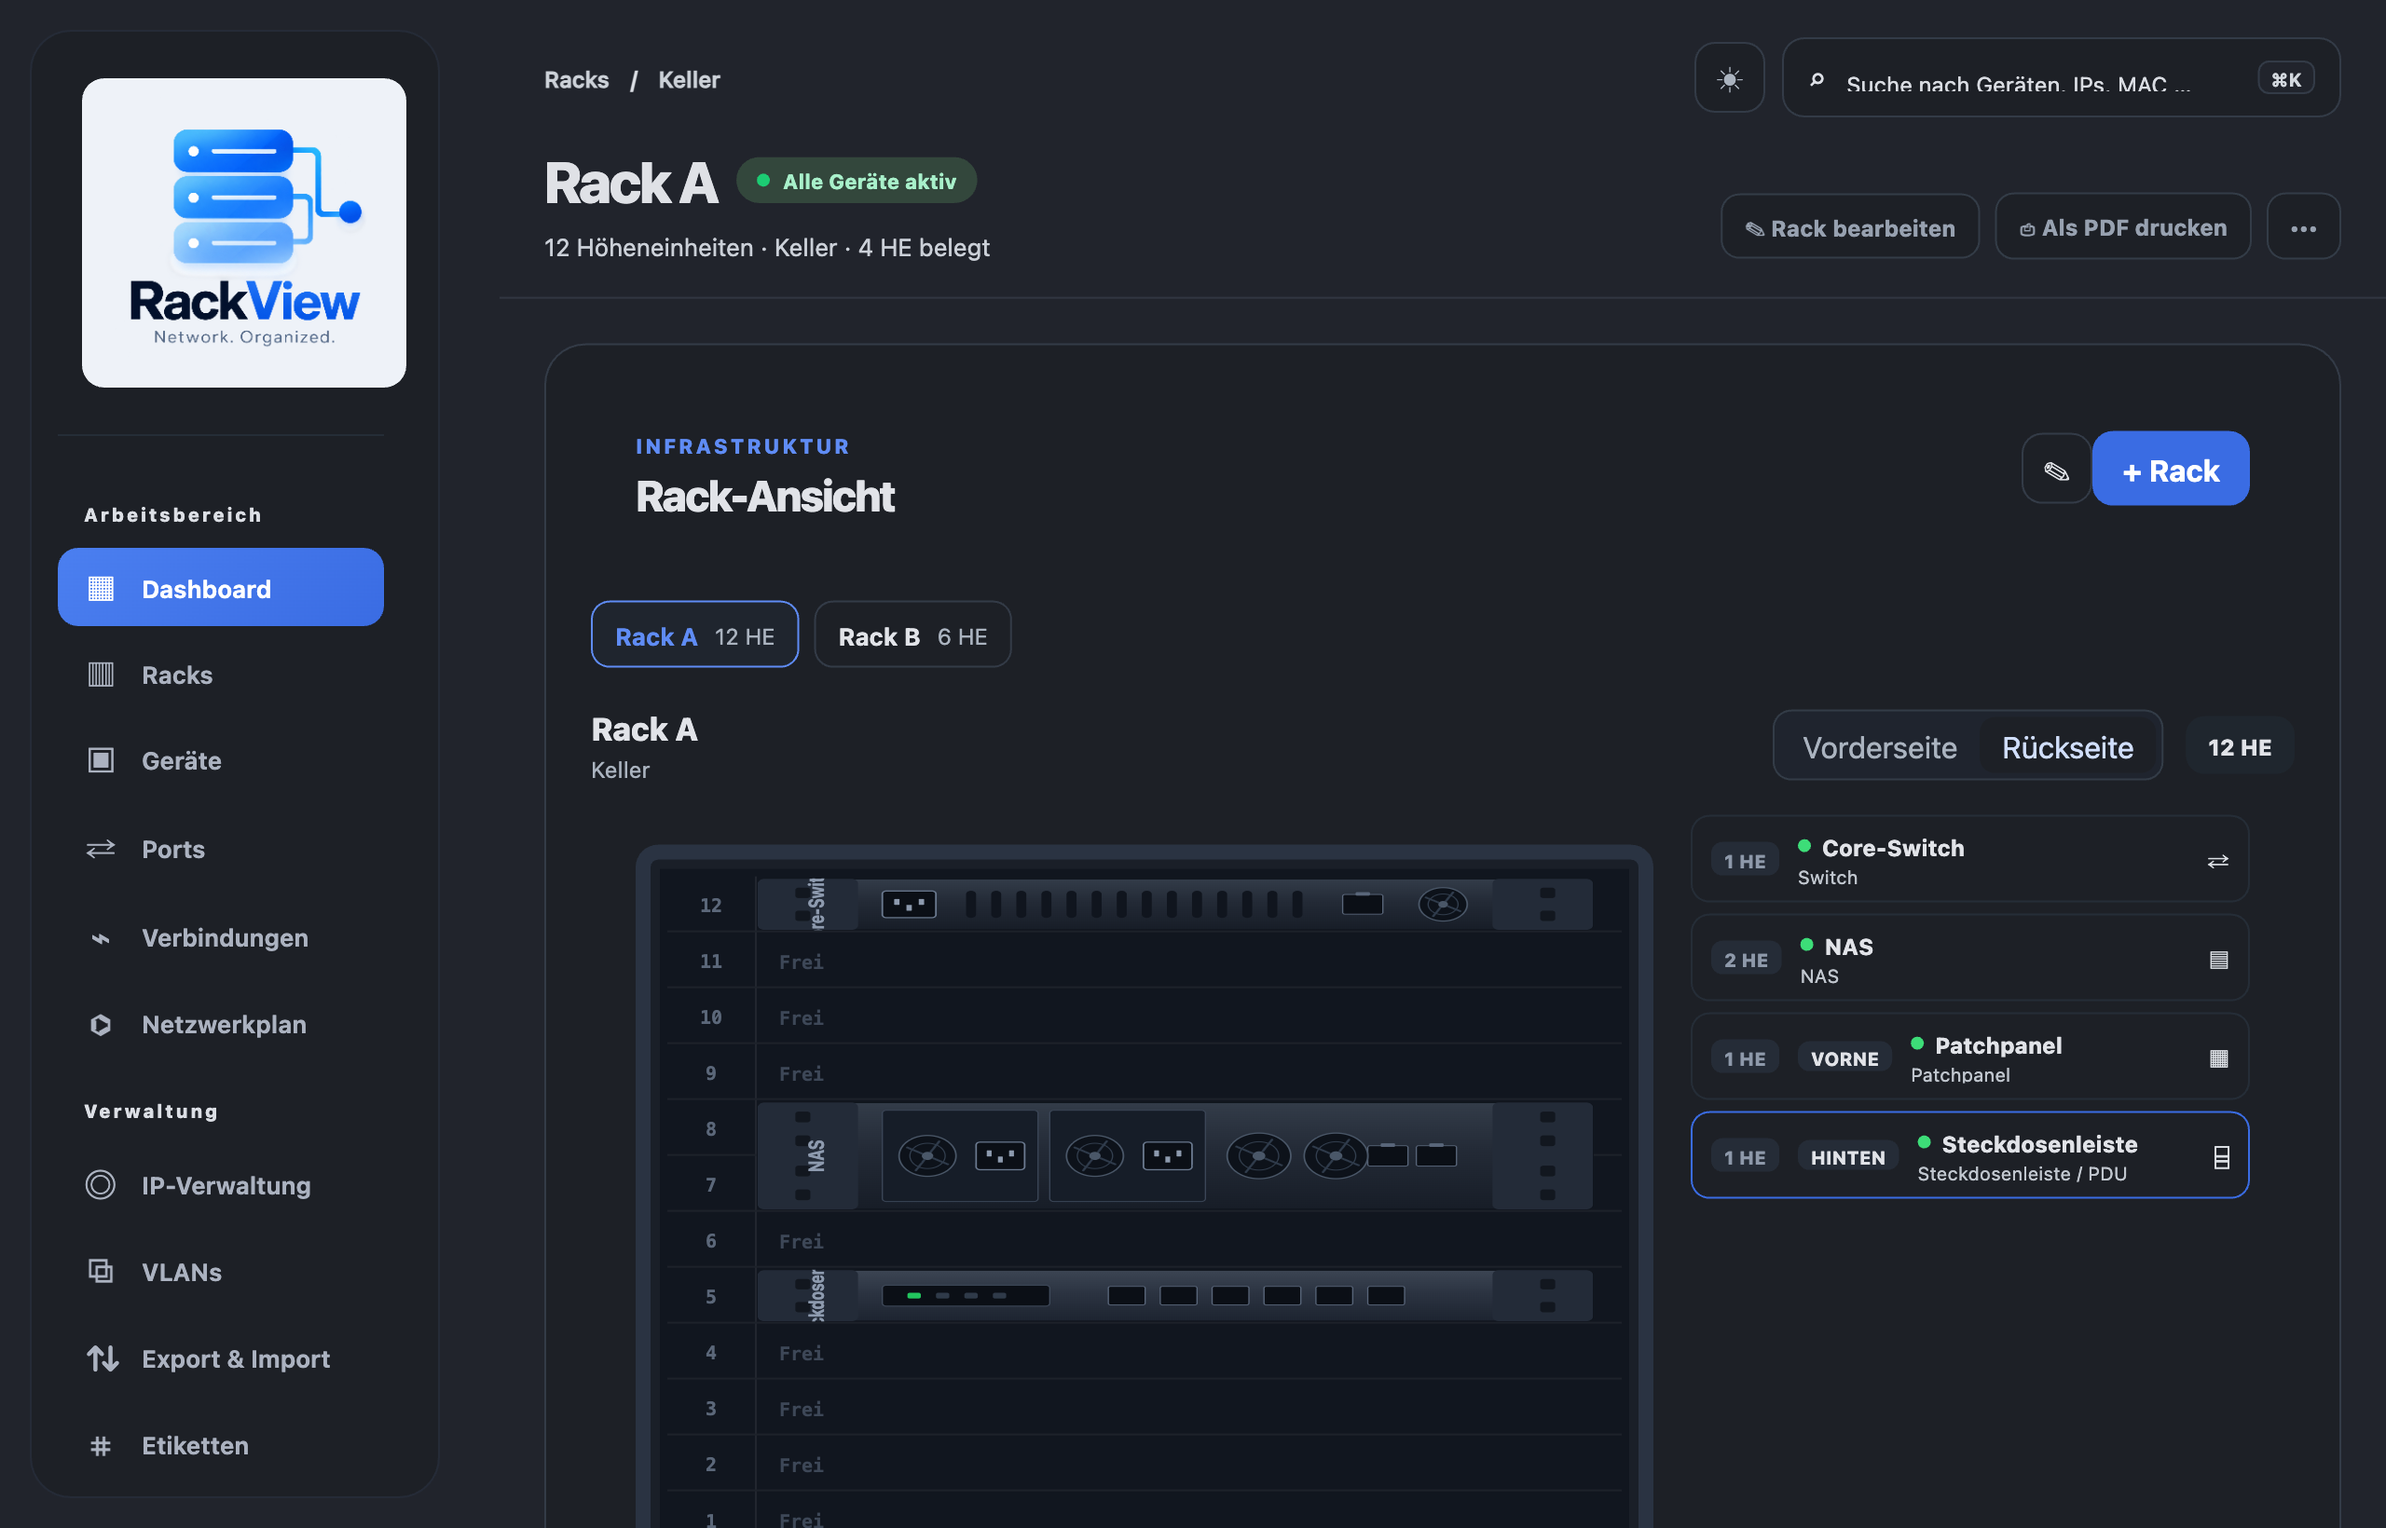
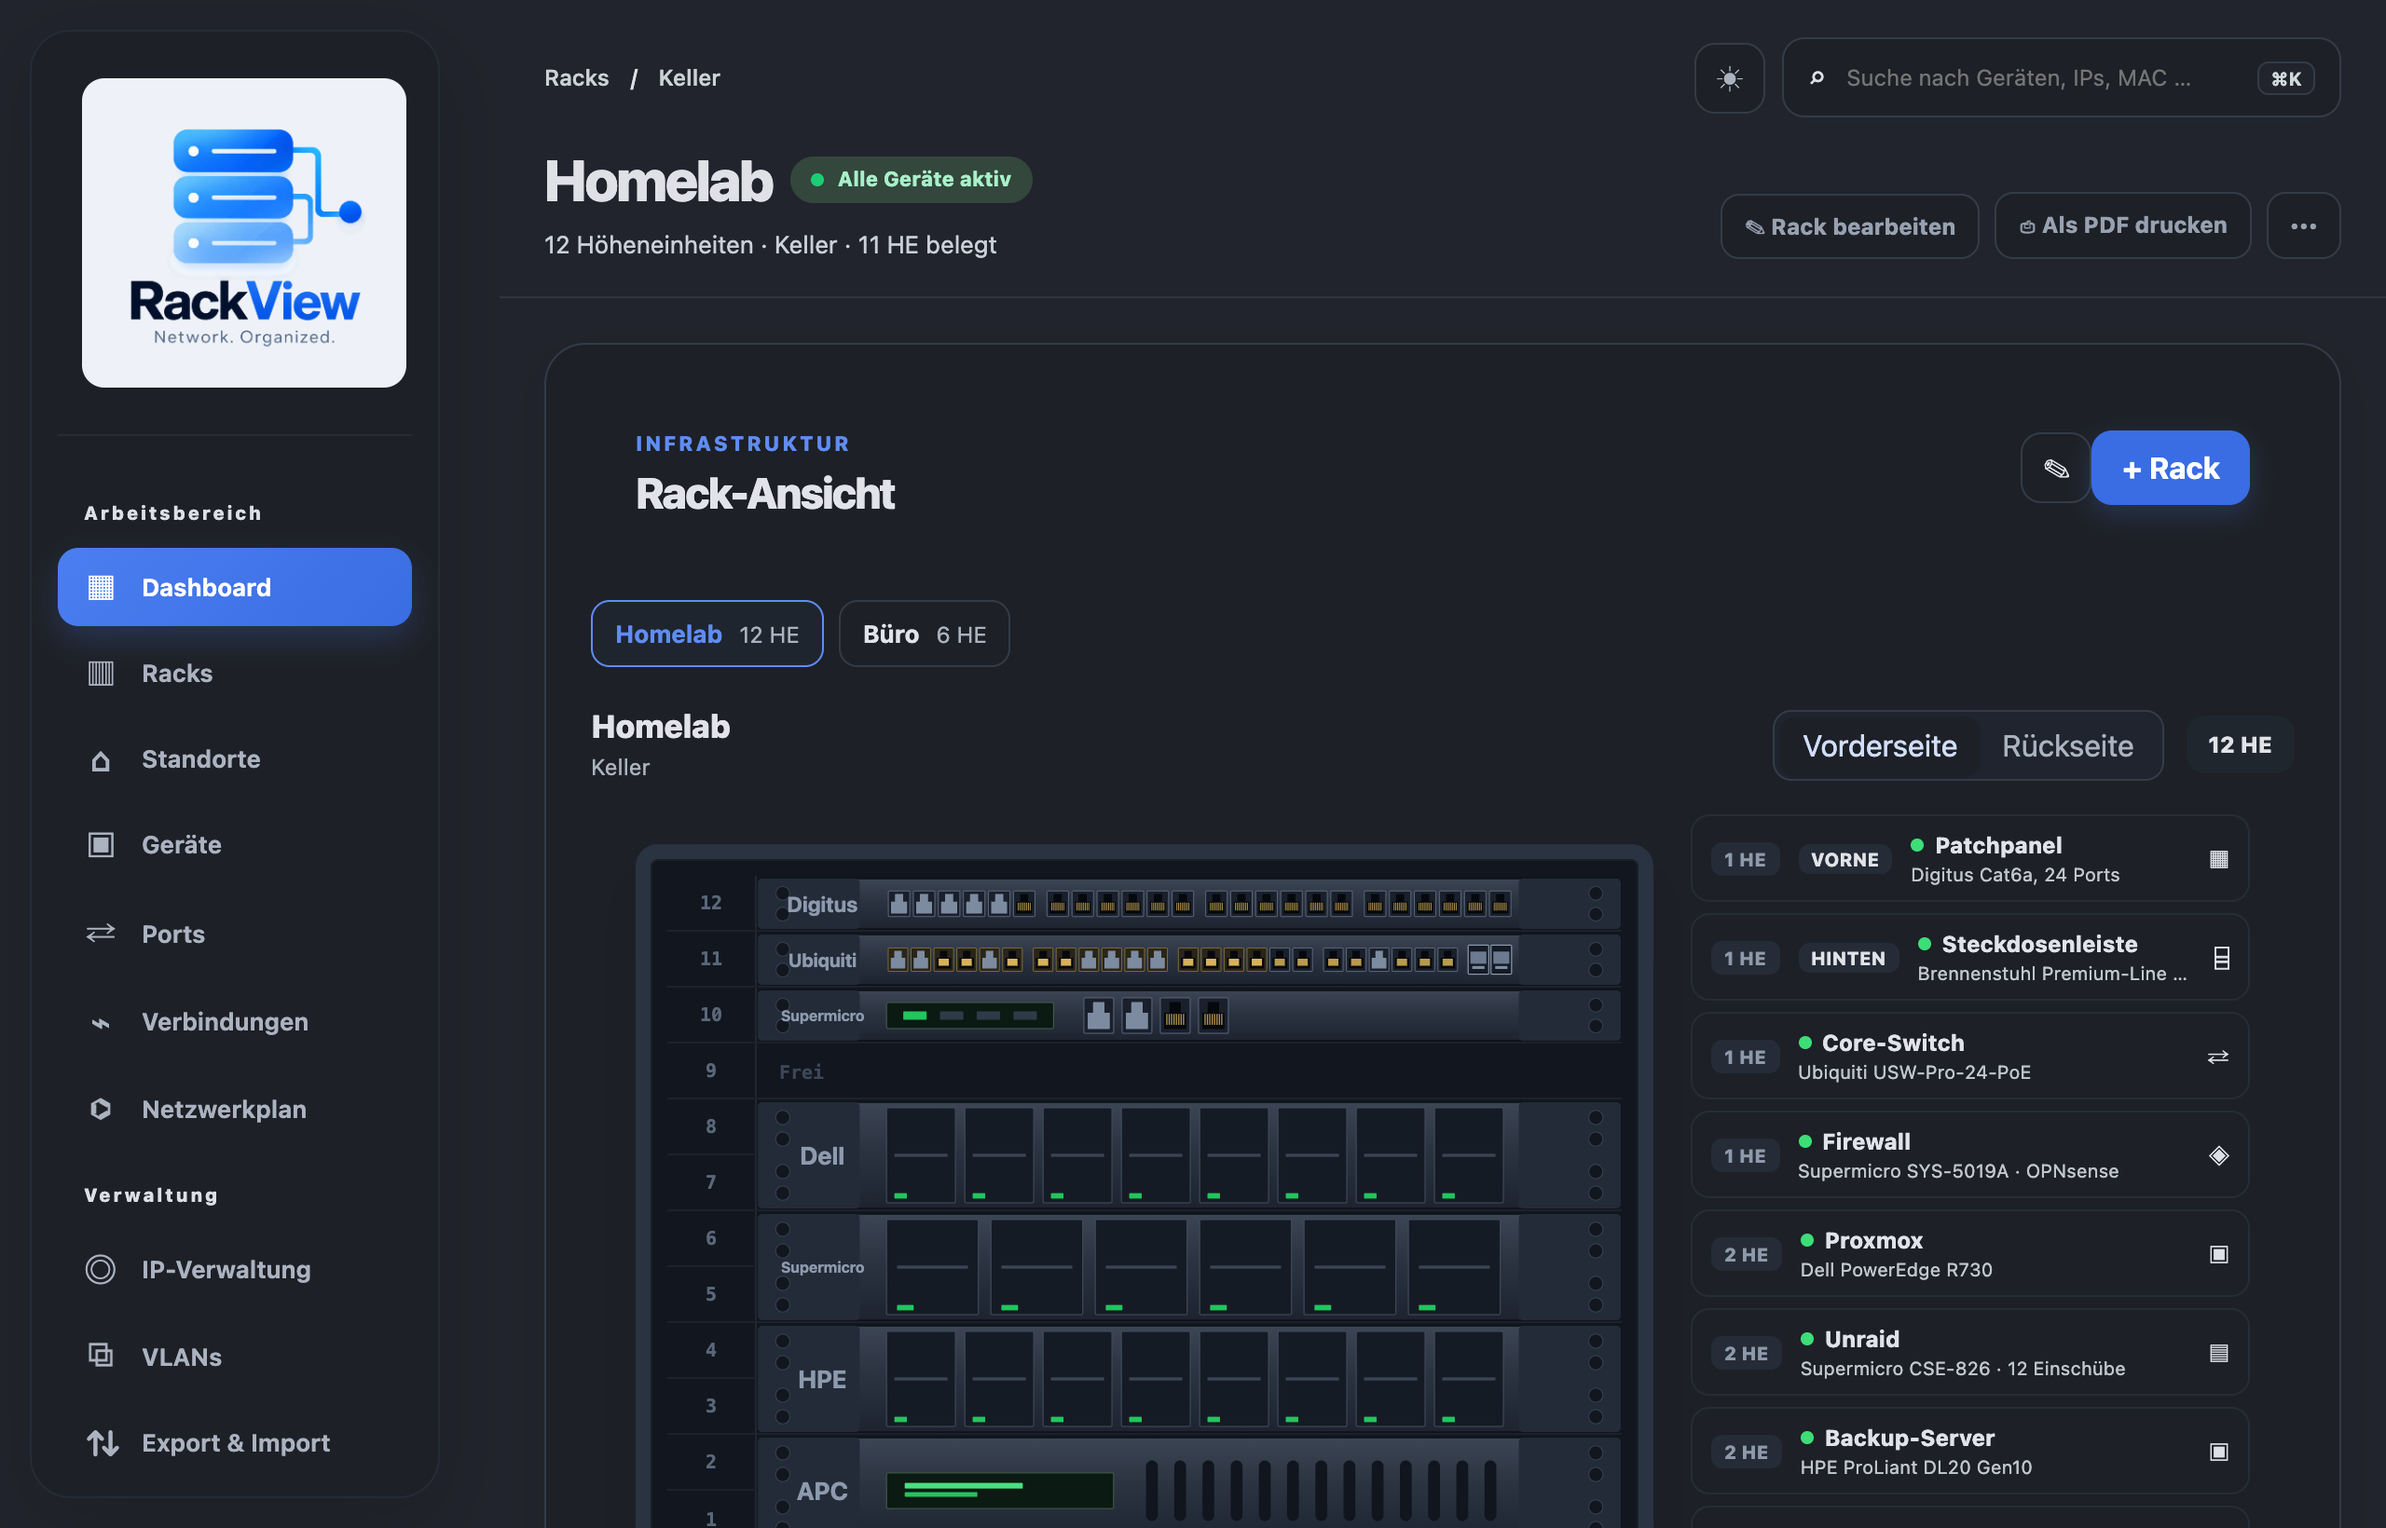
Neue Screenshots; Bilder auf der Projektseite nicht mehr gestaucht
Den Bildern der Projektseite fehlte height: auto - mit festen width/height-Attributen behielten sie beim Verkleinern ihre volle Höhe und wirkten drei- bis fünfmal zu schmal.

Die Screenshots zeigen jetzt die aktuelle Oberfläche mit gezeichneten Gerätefronten, aufgenommen mit einem erfundenen Beispiel-Homelab. Neu ist die Port-Übersicht mit RJ45- und SFP+-Buchsen, auf der Projektseite als eigener Abschnitt.

diff --git a/docs/index.html b/docs/index.html
@@ -71,7 +71,9 @@
     -webkit-font-smoothing: antialiased;
   }
 
-  img { max-width: 100%; display: block; }
+  /* height: auto ist Pflicht: Die Bilder tragen width/height fuer ein
+     ruhiges Laden, sonst behielten sie beim Verkleinern ihre volle Hoehe. */
+  img { max-width: 100%; height: auto; display: block; }
   a { color: var(--blau-schrift); }
 
   .bahn { max-width: 1040px; margin: 0 auto; padding-inline: 22px; }
@@ -261,7 +263,7 @@
   </div>
 
   <figure class="platte">
-    <img src="bilder/app-hell.png" width="2560" height="1640" alt="Das Dashboard von RackView: links die Navigation, in der Mitte Rack A mit zwölf Höheneinheiten, rechts die Geräteliste.">
+    <img src="bilder/app-hell.png" width="2560" height="1640" alt="Das Dashboard von RackView: links die Navigation, in der Mitte das Rack „Homelab“ mit zwölf Höheneinheiten und gezeichneten Gerätefronten, rechts die Geräteliste.">
     <figcaption>Dashboard mit Rack-Ansicht · Beispieldaten</figcaption>
   </figure>
 </div>
@@ -280,7 +282,7 @@
 
     <div class="duo" style="margin-top: 44px">
       <figure class="platte bild" style="margin-top: 0">
-        <img src="bilder/rack.png" width="1928" height="1708" alt="Rack-Ansicht mit Umschalter zwischen Vorderseite und Rückseite, Geräten auf ihren Höheneinheiten und einer Liste daneben.">
+        <img src="bilder/rack.png" width="1928" height="1708" alt="Rack-Ansicht mit Umschalter zwischen Vorderseite und Rückseite: Patchpanel, Switch mit SFP+-Käfigen, Server mit Einschüben und USV, daneben die Liste der Geräte.">
       </figure>
       <div class="text">
         <h3>Vorne und hinten</h3>
@@ -310,13 +312,13 @@
         </p>
       </div>
       <figure class="platte bild" style="margin-top: 0">
-        <img src="bilder/geraete.png" width="1928" height="898" alt="Geräteübersicht als Tabelle mit Vorschaubild, Typ, Standort, IP-Adresse, Ports und Status.">
+        <img src="bilder/geraete.png" width="1928" height="1872" alt="Geräteübersicht als Tabelle mit Typ, Standort im Rack oder Raum, IP-Adresse, Ports, Garantie und Status.">
       </figure>
     </div>
 
     <div class="duo">
       <figure class="platte bild" style="margin-top: 0">
-        <img src="bilder/netzplan.png" width="1928" height="1226" alt="Netzwerkplan: Geräte als Knoten, dazwischen die dokumentierten Port-Verbindungen.">
+        <img src="bilder/netzplan.png" width="1928" height="1066" alt="Netzwerkplan: Geräte als Knoten, dazwischen die Port-Verbindungen, eingefärbt nach Geschwindigkeit.">
       </figure>
       <div class="text">
         <span class="marke">Das Netz</span>
@@ -331,6 +333,23 @@
 
     <div class="duo">
       <div class="text">
+        <span class="marke">Die Anschlüsse</span>
+        <h2>Jede Buchse, wie sie aussieht.</h2>
+        <p class="gross leise" style="margin-top: 16px">
+          RJ45, SFP+, USB und Strom – gezeichnet wie am Gerät. Belegte Ports leuchten
+          grün, PoE trägt einen orangen Strich. Ein Klick zeigt, was am anderen Ende hängt.
+        </p>
+      </div>
+      <figure class="platte bild" style="margin-top: 0">
+        <img src="bilder/ports.png" width="1928" height="930" alt="Port-Übersicht eines Switches mit 24 RJ45-Buchsen und zwei SFP+-Käfigen, daneben die Details zu Port 25: SFP+, 10G, verbunden mit dem Server Proxmox.">
+      </figure>
+    </div>
+
+    <div class="duo">
+      <figure class="platte bild" style="margin-top: 0">
+        <img src="bilder/steckplaetze.png" width="1928" height="874" alt="Steckplätze einer Steckdosenleiste als gezeichnete Schukodosen, daneben die Details zu Platz 3: angeschlossen ist der Server Proxmox.">
+      </figure>
+      <div class="text">
         <span class="marke">Der Strom</span>
         <h2>Welches Netzteil in welcher Dose.</h2>
         <p class="gross leise" style="margin-top: 16px">
@@ -339,15 +358,9 @@
           Gerät hängt an genau einem Platz – steckt es schon woanders, fragt RackView nach.
         </p>
       </div>
-      <figure class="platte bild" style="margin-top: 0">
-        <img src="bilder/steckplaetze.png" width="1928" height="1408" alt="Gerätedetails einer Steckdosenleiste mit dem Reiter Steckplätze und je Platz einer Auswahl.">
-      </figure>
     </div>
 
     <div class="duo">
-      <figure class="platte bild" style="margin-top: 0">
-        <img src="bilder/etiketten.png" width="1928" height="1260" alt="Etikettenseite mit Auswahl der Geräte, Formatwahl und einer Vorschau der QR-Etiketten in Millimetern.">
-      </figure>
       <div class="text">
         <span class="marke">Vor Ort</span>
         <h2>Ein Code am Gerät.</h2>
@@ -357,6 +370,9 @@
           im Serverraum die schnellste Antwort auf „was ist das hier eigentlich".
         </p>
       </div>
+      <figure class="platte bild" style="margin-top: 0">
+        <img src="bilder/etiketten.png" width="2152" height="1724" alt="Etikettenseite mit Formatwahl, Auswahl der Geräte und einer Vorschau der QR-Etiketten in Millimetern.">
+      </figure>
     </div>
   </div>
 </section>

diff --git a/README.md b/README.md
@@ -44,11 +44,15 @@
 
 <table>
   <tr>
+    <td><img src="docs/bilder/rack.png" alt="Rack mit Vorder- und Rückansicht"></td>
     <td><img src="docs/bilder/geraete.png" alt="Geräteliste"></td>
+  </tr>
+  <tr>
+    <td><img src="docs/bilder/ports.png" alt="Port-Übersicht mit RJ45 und SFP+"></td>
     <td><img src="docs/bilder/netzplan.png" alt="Netzwerkplan"></td>
   </tr>
   <tr>
-    <td><img src="docs/bilder/steckplaetze.png" alt="Steckplätze"></td>
+    <td><img src="docs/bilder/steckplaetze.png" alt="Steckplätze der Steckdosenleiste"></td>
     <td><img src="docs/bilder/etiketten.png" alt="QR-Etiketten"></td>
   </tr>
 </table>
